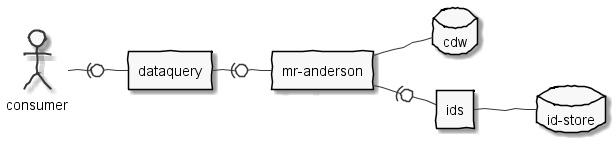
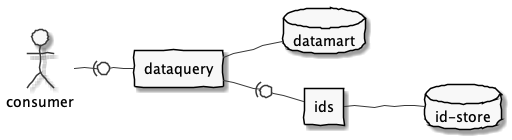
Revert readme, updated apps diagram

Changed region(s): [[0.0312, 0.0286, 1.0, 0.9714], [0.0, 0.6857, 0.1562, 0.7714], [0.5625, 0.8286, 0.5938, 0.8571]]

diff --git a/data-query/README.md b/data-query/README.md
@@ -13,14 +13,18 @@ for each resource.
 ![resource components](src/plantuml/controller-design.png)
 
 ##### Components
+
+- `MrAndersonClient` - Abstraction for interacting with the Mr. Anderson service.
+  - `Query` - Type-safe query model for making searches
+  - `RestMrAndersonClient` - Restful implementation of the `MrAndersonClient` interface. 
 - `WebExceptionHandler` - Provides common error handling for resource controllers. It will map
-  exceptions to `OperationOutcome` payloads with
+  exceptions, like those thrown from `MrAndersonClient` to `OperationOutcome` payloads with
   appropriate HTTP status codes.
 - `${Resource}` - The Argonaut Data Query model for a specific resource, e.g. `Patient` or `DiagnosticReport`.
 - `${Resource}${Version}Root` - A versioned CDW schema JAXB model for the XML root element that will
   be used for XML unmarshalling, e.g `Patient103Root`. This class is generated from CDW schemas.
 - `${Resource}Controller` - Spring Rest Controller responsible for a given resource type. Resource
-  controllers orchestrate requests and conversion to data query types.
+  controllers orchestrate requests to Mr. Anderson and conversion to data query types.
 - `${Resource}Controller.Transformer` - An functional interface to transform a CDW XML model type to
   a Argonaut data query model type.
 - `${Resource}Transformer` - The implementation of a resource-specific controller's Transformer
